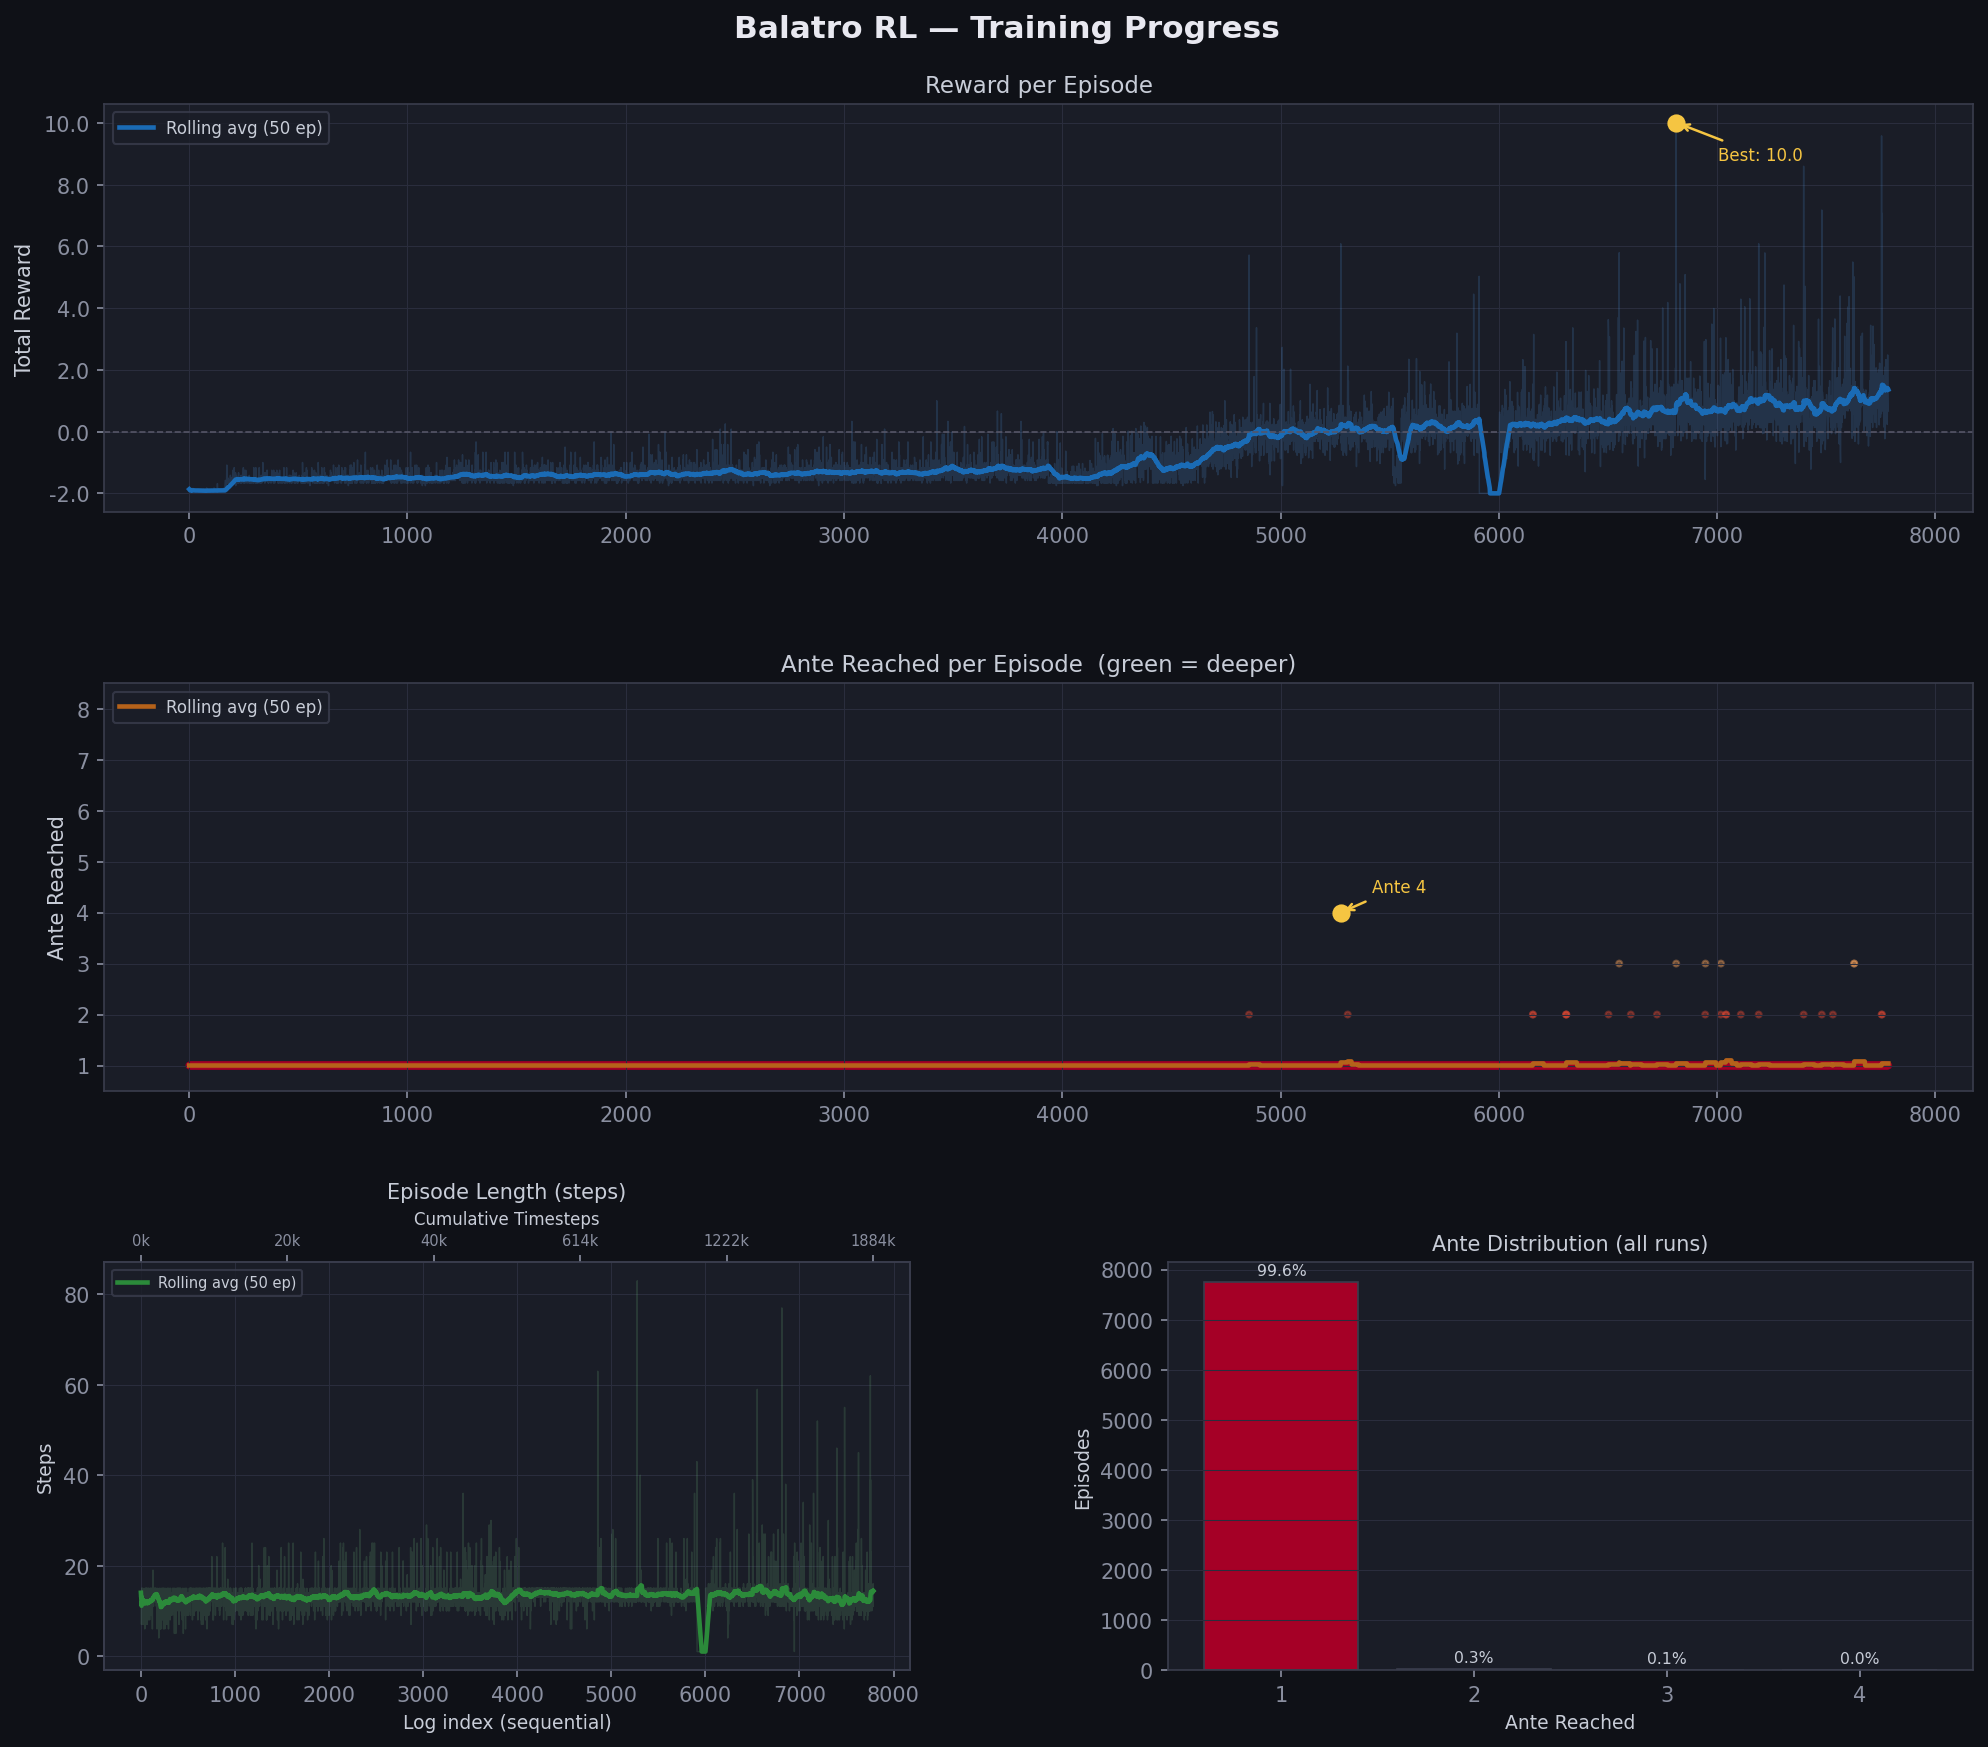
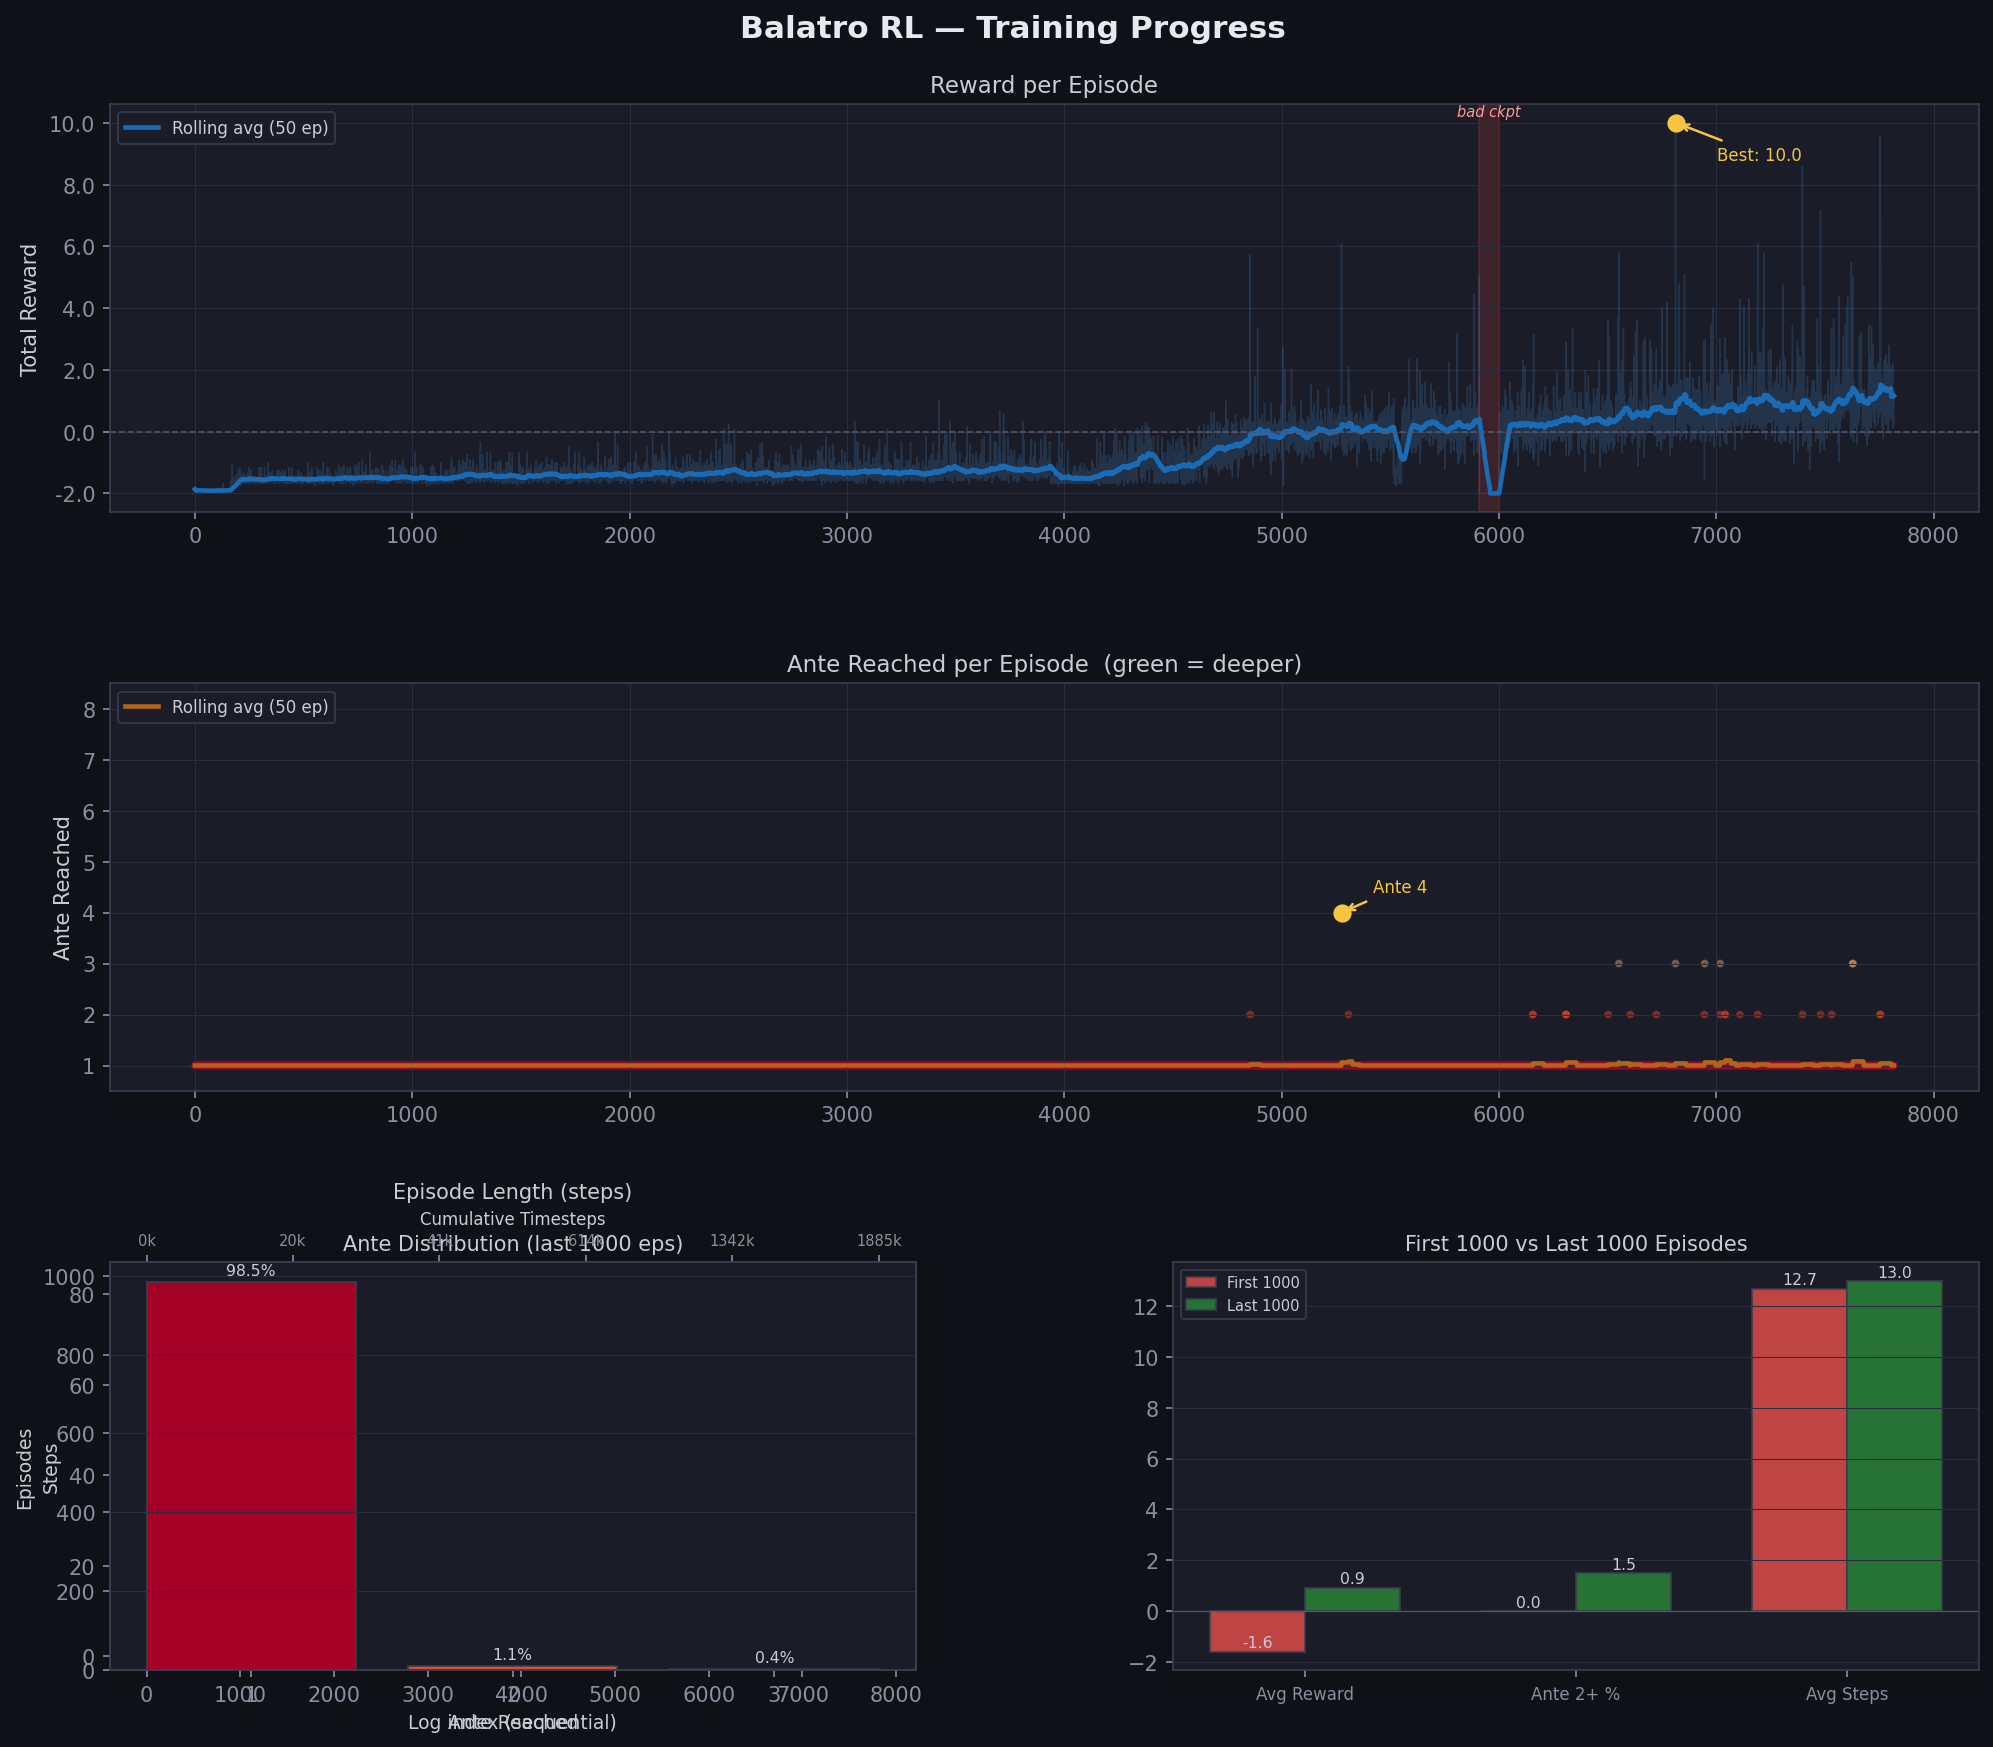
Add first/last 1k comparison panel, annotate bad-checkpoint flatline

diff --git a/plot_training.py b/plot_training.py
@@ -117,7 +117,8 @@ def main():
         ax_rew  = fig.add_subplot(gs[0, :])   # full width
         ax_ante = fig.add_subplot(gs[1, :])   # full width
         ax_len  = fig.add_subplot(gs[2, 0])
-        ax_dist = fig.add_subplot(gs[2, 1])
+        ax_dist = fig.add_subplot(gs[2, 0])
+        ax_cmp  = fig.add_subplot(gs[2, 1])
 
         # ── Panel 1: Reward ───────────────────────────────────────────────
         ax_rew.plot(idx, rewards, alpha=0.18, color=BLUE, linewidth=0.7)
@@ -133,6 +134,15 @@ def main():
                         xytext=(20, -18), textcoords="offset points",
                         fontsize=8, color=GOLD,
                         arrowprops=dict(arrowstyle="->", color=GOLD, lw=1.2))
+
+        # Mark the bad-checkpoint flatline (length=1, reward=-2 streak)
+        flat = [i for i in range(len(eps)) if lengths[i] == 1 and rewards[i] <= -1.9]
+        if flat:
+            x0, x1 = flat[0], flat[-1]
+            ax_rew.axvspan(x0 - 1, x1 + 1, color="#FF4444", alpha=0.15, zorder=0)
+            ax_rew.text((x0 + x1) / 2, ax_rew.get_ylim()[1] if ax_rew.get_ylim()[1] > 0 else 2,
+                        "bad ckpt", ha="center", va="top", fontsize=7,
+                        color="#FF9999", style="italic")
 
         ax_rew.set_ylabel("Total Reward", fontsize=10)
         ax_rew.set_title("Reward per Episode", fontsize=11, pad=6)
@@ -181,9 +191,11 @@ def main():
         ax2.set_xticklabels([f"{cum_ts[i]//1000}k" for i in tidx], fontsize=7)
         ax2.set_xlabel("Cumulative Timesteps", fontsize=8, labelpad=4)
 
-        # ── Panel 4: Ante distribution ────────────────────────────────────
+        # ── Panel 4: Ante distribution (last 1k only) ─────────────────────
+        K = min(1000, n)
+        last_antes = antes[-K:]
         ante_counts = {}
-        for a in antes:
+        for a in last_antes:
             ante_counts[a] = ante_counts.get(a, 0) + 1
         ante_labels = sorted(ante_counts)
         ante_vals   = [ante_counts[a] for a in ante_labels]
@@ -192,7 +204,7 @@ def main():
         bars = ax_dist.bar(ante_labels, ante_vals, color=bar_colors,
                            edgecolor="#3A3D4D", linewidth=0.8)
         for bar, val in zip(bars, ante_vals):
-            pct = 100 * val / n
+            pct = 100 * val / K
             ax_dist.text(bar.get_x() + bar.get_width() / 2,
                          bar.get_height() + max(ante_vals) * 0.01,
                          f"{pct:.1f}%", ha="center", va="bottom",
@@ -200,9 +212,44 @@ def main():
 
         ax_dist.set_xlabel("Ante Reached", fontsize=9)
         ax_dist.set_ylabel("Episodes", fontsize=9)
-        ax_dist.set_title("Ante Distribution (all runs)", fontsize=10, pad=6)
+        ax_dist.set_title(f"Ante Distribution (last {K} eps)", fontsize=10, pad=6)
         ax_dist.xaxis.set_major_locator(ticker.MultipleLocator(1))
         ax_dist.grid(True, axis="y")
+
+        # ── Panel 5: First 1k vs Last 1k comparison ───────────────────────
+        seg = min(1000, n // 2)
+        first  = {"rew": rewards[:seg],   "ante": antes[:seg],   "len": lengths[:seg]}
+        last   = {"rew": rewards[-seg:],  "ante": antes[-seg:],  "len": lengths[-seg:]}
+
+        metrics = ["Avg Reward", "Ante 2+ %", "Avg Steps"]
+        first_v = [
+            float(np.mean(first["rew"])),
+            float(100 * np.mean(first["ante"] >= 2)),
+            float(np.mean(first["len"])),
+        ]
+        last_v  = [
+            float(np.mean(last["rew"])),
+            float(100 * np.mean(last["ante"] >= 2)),
+            float(np.mean(last["len"])),
+        ]
+
+        x_cmp = np.arange(len(metrics))
+        w = 0.35
+        b1 = ax_cmp.bar(x_cmp - w/2, first_v, w, label=f"First {seg}", color=RED,   alpha=0.8, edgecolor="#3A3D4D")
+        b2 = ax_cmp.bar(x_cmp + w/2, last_v,  w, label=f"Last {seg}",  color=GRN_D, alpha=0.8, edgecolor="#3A3D4D")
+
+        for bar, val in zip(list(b1) + list(b2), first_v + last_v):
+            fmt = f"{val:.1f}"
+            ax_cmp.text(bar.get_x() + bar.get_width() / 2,
+                        bar.get_height() + abs(min(first_v + last_v)) * 0.03,
+                        fmt, ha="center", va="bottom", fontsize=7.5, color="#C8CDD8")
+
+        ax_cmp.set_xticks(x_cmp)
+        ax_cmp.set_xticklabels(metrics, fontsize=8)
+        ax_cmp.set_title(f"First {seg} vs Last {seg} Episodes", fontsize=10, pad=6)
+        ax_cmp.legend(fontsize=7)
+        ax_cmp.axhline(0, color="#555566", linewidth=0.6)
+        ax_cmp.grid(True, axis="y")
 
         plt.savefig(OUT_PNG, dpi=150, bbox_inches="tight",
                     facecolor=fig.get_facecolor())
